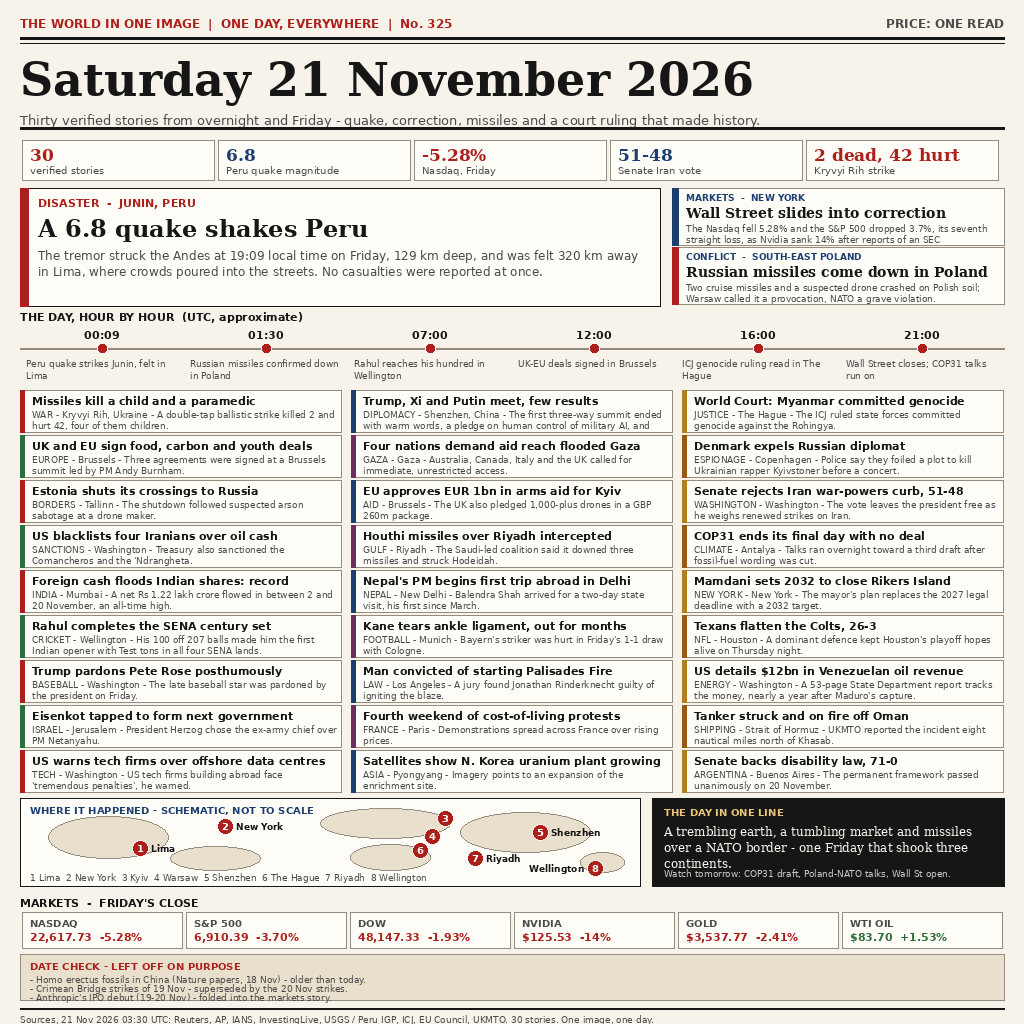
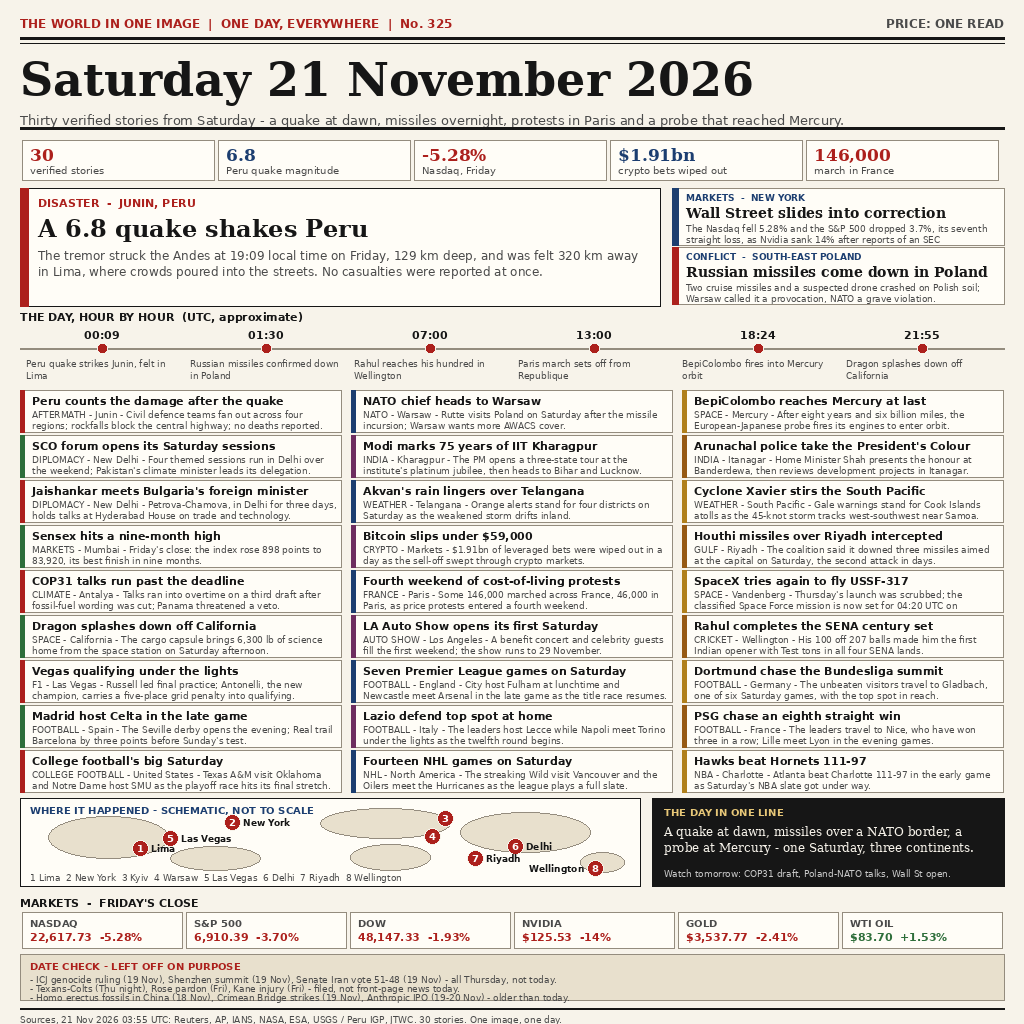
Fix misdated stories: replace 23 pre-21-Nov cards with verified Saturday stories; new map pins; updated date-check box

diff --git a/build_image.py b/build_image.py
@@ -2,7 +2,7 @@
 """Render one newspaper front page summing up Saturday 21 November 2026.
 
 Everything here is authored in this session: the story list was researched
-from public reporting on the morning of 21 Nov 2026 (03:30 UTC), and the
+from public reporting on the morning of 21 Nov 2026 (03:55 UTC), and the
 drawing code is an original, data-driven layout. Output is deterministic:
 no clock, no randomness, fixed palette and fonts, so re-running the script
 reproduces the same PNG bytes.
@@ -72,60 +72,60 @@ LEAD_ITEMS = [
 ]
 
 GRID_ITEMS = [
-    ("WAR", "Kryvyi Rih, Ukraine", "Missiles kill a child and a paramedic",
-     "A double-tap ballistic strike killed 2 and hurt 42, four of them children."),
-    ("DIPLOMACY", "Shenzhen, China", "Trump, Xi and Putin meet, few results",
-     "The first three-way summit ended with warm words, a pledge on human control of military AI, and little concrete."),
-    ("JUSTICE", "The Hague", "World Court: Myanmar committed genocide",
-     "The ICJ ruled state forces committed genocide against the Rohingya."),
-    ("EUROPE", "Brussels", "UK and EU sign food, carbon and youth deals",
-     "Three agreements were signed at a Brussels summit led by PM Andy Burnham."),
-    ("GAZA", "Gaza", "Four nations demand aid reach flooded Gaza",
-     "Australia, Canada, Italy and the UK called for immediate, unrestricted access."),
-    ("ESPIONAGE", "Copenhagen", "Denmark expels Russian diplomat",
-     "Police say they foiled a plot to kill Ukrainian rapper Kyivstoner before a concert."),
-    ("BORDERS", "Tallinn", "Estonia shuts its crossings to Russia",
-     "The shutdown followed suspected arson sabotage at a drone maker."),
-    ("AID", "Brussels", "EU approves EUR 1bn in arms aid for Kyiv",
-     "The UK also pledged 1,000-plus drones in a GBP 260m package."),
-    ("WASHINGTON", "Washington", "Senate rejects Iran war-powers curb, 51-48",
-     "The vote leaves the president free as he weighs renewed strikes on Iran."),
-    ("SANCTIONS", "Washington", "US blacklists four Iranians over oil cash",
-     "Treasury also sanctioned the Comancheros and the 'Ndrangheta."),
+    ("AFTERMATH", "Junin", "Peru counts the damage after the quake",
+     "Civil defence teams fan out across four regions; rockfalls block the central highway; no deaths reported."),
+    ("NATO", "Warsaw", "NATO chief heads to Warsaw",
+     "Rutte visits Poland on Saturday after the missile incursion; Warsaw wants more AWACS cover."),
+    ("SPACE", "Mercury", "BepiColombo reaches Mercury at last",
+     "After eight years and six billion miles, the European-Japanese probe fires its engines to enter orbit."),
+    ("DIPLOMACY", "New Delhi", "SCO forum opens its Saturday sessions",
+     "Four themed sessions run in Delhi over the weekend; Pakistan's climate minister leads its delegation."),
+    ("INDIA", "Kharagpur", "Modi marks 75 years of IIT Kharagpur",
+     "The PM opens a three-state tour at the institute's platinum jubilee, then heads to Bihar and Lucknow."),
+    ("INDIA", "Itanagar", "Arunachal police take the President's Colour",
+     "Home Minister Shah presents the honour at Banderdewa, then reviews development projects in Itanagar."),
+    ("DIPLOMACY", "New Delhi", "Jaishankar meets Bulgaria's foreign minister",
+     "Petrova-Chamova, in Delhi for three days, holds talks at Hyderabad House on trade and technology."),
+    ("WEATHER", "Telangana", "Akvan's rain lingers over Telangana",
+     "Orange alerts stand for four districts on Saturday as the weakened storm drifts inland."),
+    ("WEATHER", "South Pacific", "Cyclone Xavier stirs the South Pacific",
+     "Gale warnings stand for Cook Islands atolls as the 45-knot storm tracks west-southwest near Samoa."),
+    ("MARKETS", "Mumbai", "Sensex hits a nine-month high",
+     "Friday's close: the index rose 898 points to 83,920, its best finish in nine months."),
+    ("CRYPTO", "Markets", "Bitcoin slips under $59,000",
+     "$1.91bn of leveraged bets were wiped out in a day as the sell-off swept through crypto markets."),
     ("GULF", "Riyadh", "Houthi missiles over Riyadh intercepted",
-     "The Saudi-led coalition said it downed three missiles and struck Hodeidah."),
-    ("CLIMATE", "Antalya", "COP31 ends its final day with no deal",
-     "Talks ran overnight toward a third draft after fossil-fuel wording was cut."),
-    ("INDIA", "Mumbai", "Foreign cash floods Indian shares: record",
-     "A net Rs 1.22 lakh crore flowed in between 2 and 20 November, an all-time high."),
-    ("NEPAL", "New Delhi", "Nepal's PM begins first trip abroad in Delhi",
-     "Balendra Shah arrived for a two-day state visit, his first since March."),
-    ("NEW YORK", "New York", "Mamdani sets 2032 to close Rikers Island",
-     "The mayor's plan replaces the 2027 legal deadline with a 2032 target."),
+     "The coalition said it downed three missiles aimed at the capital on Saturday, the second attack in days."),
+    ("CLIMATE", "Antalya", "COP31 talks run past the deadline",
+     "Talks ran into overtime on a third draft after fossil-fuel wording was cut; Panama threatened a veto."),
+    ("FRANCE", "Paris", "Fourth weekend of cost-of-living protests",
+     "Some 146,000 marched across France, 46,000 in Paris, as price protests entered a fourth weekend."),
+    ("SPACE", "Vandenberg", "SpaceX tries again to fly USSF-317",
+     "Thursday's launch was scrubbed; the classified Space Force mission is now set for 04:20 UTC on Saturday."),
+    ("SPACE", "California", "Dragon splashes down off California",
+     "The cargo capsule brings 6,300 lb of science home from the space station on Saturday afternoon."),
+    ("AUTO SHOW", "Los Angeles", "LA Auto Show opens its first Saturday",
+     "A benefit concert and celebrity guests fill the first weekend; the show runs to 29 November."),
     ("CRICKET", "Wellington", "Rahul completes the SENA century set",
      "His 100 off 207 balls made him the first Indian opener with Test tons in all four SENA lands."),
-    ("FOOTBALL", "Munich", "Kane tears ankle ligament, out for months",
-     "Bayern's striker was hurt in Friday's 1-1 draw with Cologne."),
-    ("NFL", "Houston", "Texans flatten the Colts, 26-3",
-     "A dominant defence kept Houston's playoff hopes alive on Thursday night."),
-    ("BASEBALL", "Washington", "Trump pardons Pete Rose posthumously",
-     "The late baseball star was pardoned by the president on Friday."),
-    ("LAW", "Los Angeles", "Man convicted of starting Palisades Fire",
-     "A jury found Jonathan Rinderknecht guilty of igniting the blaze."),
-    ("ENERGY", "Washington", "US details $12bn in Venezuelan oil revenue",
-     "A 53-page State Department report tracks the money, nearly a year after Maduro's capture."),
-    ("ISRAEL", "Jerusalem", "Eisenkot tapped to form next government",
-     "President Herzog chose the ex-army chief over PM Netanyahu."),
-    ("FRANCE", "Paris", "Fourth weekend of cost-of-living protests",
-     "Demonstrations spread across France over rising prices."),
-    ("SHIPPING", "Strait of Hormuz", "Tanker struck and on fire off Oman",
-     "UKMTO reported the incident eight nautical miles north of Khasab."),
-    ("TECH", "Washington", "US warns tech firms over offshore data centres",
-     "US tech firms building abroad face 'tremendous penalties', he warned."),
-    ("ASIA", "Pyongyang", "Satellites show N. Korea uranium plant growing",
-     "Imagery points to an expansion of the enrichment site."),
-    ("ARGENTINA", "Buenos Aires", "Senate backs disability law, 71-0",
-     "The permanent framework passed unanimously on 20 November."),
+    ("F1", "Las Vegas", "Vegas qualifying under the lights",
+     "Russell led final practice; Antonelli, the new champion, carries a five-place grid penalty into qualifying."),
+    ("FOOTBALL", "England", "Seven Premier League games on Saturday",
+     "City host Fulham at lunchtime and Newcastle meet Arsenal in the late game as the title race resumes."),
+    ("FOOTBALL", "Germany", "Dortmund chase the Bundesliga summit",
+     "The unbeaten visitors travel to Gladbach, one of six Saturday games, with the top spot in reach."),
+    ("FOOTBALL", "Spain", "Madrid host Celta in the late game",
+     "The Seville derby opens the evening; Real trail Barcelona by three points before Sunday's test."),
+    ("FOOTBALL", "Italy", "Lazio defend top spot at home",
+     "The leaders host Lecce while Napoli meet Torino under the lights as the twelfth round begins."),
+    ("FOOTBALL", "France", "PSG chase an eighth straight win",
+     "The leaders travel to Nice, who have won three in a row; Lille meet Lyon in the evening games."),
+    ("COLLEGE FOOTBALL", "United States", "College football's big Saturday",
+     "Texas A&M visit Oklahoma and Notre Dame host SMU as the playoff race hits its final stretch."),
+    ("NHL", "North America", "Fourteen NHL games on Saturday",
+     "The streaking Wild visit Vancouver and the Oilers meet the Hurricanes as the league plays a full slate."),
+    ("NBA", "Charlotte", "Hawks beat Hornets 111-97",
+     "Atlanta beat Charlotte 111-97 in the early game as Saturday's NBA slate got under way."),
 ]
 
 # (utc time, label) — times approximate, UTC.
@@ -133,9 +133,9 @@ DAY_TIMELINE = [
     ("00:09", "Peru quake strikes Junin, felt in Lima"),
     ("01:30", "Russian missiles confirmed down in Poland"),
     ("07:00", "Rahul reaches his hundred in Wellington"),
-    ("12:00", "UK-EU deals signed in Brussels"),
-    ("16:00", "ICJ genocide ruling read in The Hague"),
-    ("21:00", "Wall Street closes; COP31 talks run on"),
+    ("13:00", "Paris march sets off from Republique"),
+    ("18:24", "BepiColombo fires into Mercury orbit"),
+    ("21:55", "Dragon splashes down off California"),
 ]
 
 MARKET_ROWS = [
@@ -151,26 +151,26 @@ STAT_CELLS = [
     ("30", "verified stories"),
     ("6.8", "Peru quake magnitude"),
     ("-5.28%", "Nasdaq, Friday"),
-    ("51-48", "Senate Iran vote"),
-    ("2 dead, 42 hurt", "Kryvyi Rih strike"),
+    ("$1.91bn", "crypto bets wiped out"),
+    ("146,000", "march in France"),
 ]
 
 # Numbered pins on the schematic map: (x, y, number, label).
 MAP_PINS = [
     (120, 50, "1", "Lima"),
-    (205, 28, "2", "New York"),
+    (212, 24, "2", "New York"),
     (425, 20, "3", ""),
     (412, 38, "4", ""),
-    (520, 34, "5", "Shenzhen"),
-    (400, 52, "6", ""),
+    (150, 40, "5", "Las Vegas"),
+    (495, 48, "6", "Delhi"),
     (455, 60, "7", "Riyadh"),
     (575, 70, "8", "Wellington"),
 ]
 
 LEFT_OFF = [
-    "Homo erectus fossils in China (Nature papers, 18 Nov) - older than today.",
-    "Crimean Bridge strikes of 19 Nov - superseded by the 20 Nov strikes.",
-    "Anthropic's IPO debut (19-20 Nov) - folded into the markets story.",
+    "ICJ genocide ruling (19 Nov), Shenzhen summit (19 Nov), Senate Iran vote 51-48 (19 Nov) - all Thursday, not today.",
+    "Texans-Colts (Thu night), Rose pardon (Fri), Kane injury (Fri) - filed, not front-page news today.",
+    "Homo erectus fossils in China (18 Nov), Crimean Bridge strikes (19 Nov), Anthropic IPO (19-20 Nov) - older than today.",
 ]
 
 
@@ -245,7 +245,7 @@ class FrontPage:
         headline = "Saturday 21 November 2026"
         pen.text((EDGE, top + 36), headline,
                  font=set_.font(SERIF_BOLD, 46), fill=INK)
-        sub = "Thirty verified stories from overnight and Friday - quake, correction, missiles and a court ruling that made history."
+        sub = "Thirty verified stories from Saturday - a quake at dawn, missiles overnight, protests in Paris and a probe that reached Mercury."
         for i, line in enumerate(set_.wrap(sub, SANS, 13, INNER_W)):
             pen.text((EDGE, top + 96 + i * 17), line,
                      font=set_.font(SANS, 13), fill=SOFT_INK)
@@ -377,7 +377,7 @@ class FrontPage:
                 lx = EDGE + px - 11 - label_w
             pen.text((lx, y + py - 5), label,
                      font=set_.font(SANS_BOLD, 9), fill=INK)
-        key = "1 Lima  2 New York  3 Kyiv  4 Warsaw  5 Shenzhen  6 The Hague  7 Riyadh  8 Wellington"
+        key = "1 Lima  2 New York  3 Kyiv  4 Warsaw  5 Las Vegas  6 Delhi  7 Riyadh  8 Wellington"
         pen.text((EDGE + 10, y + map_h - 14), key,
                  font=set_.font(SANS, 9), fill=SOFT_INK)
 
@@ -386,8 +386,8 @@ class FrontPage:
         pen.rectangle([vx, y, vx + vw, y + map_h], fill=(22, 22, 22))
         pen.text((vx + 12, y + 8), "THE DAY IN ONE LINE",
                  font=set_.font(SANS_BOLD, 10), fill=(232, 200, 120))
-        verdict = ("A trembling earth, a tumbling market and missiles over "
-                   "a NATO border - one Friday that shook three continents.")
+        verdict = ("A quake at dawn, missiles over a NATO border, a probe "
+                   "at Mercury - one Saturday, three continents.")
         for i, line in enumerate(set_.wrap(verdict, SERIF, 12, vw - 24)):
             pen.text((vx + 12, y + 26 + i * 16), line,
                      font=set_.font(SERIF, 12), fill=(247, 243, 234))
@@ -428,8 +428,8 @@ class FrontPage:
     def paint_footer(self, y: int) -> None:
         pen, set_ = self.pen, self.set
         draw_rule(pen, EDGE, y, CANVAS_W - EDGE, 2)
-        foot = ("Sources, 21 Nov 2026 03:30 UTC: Reuters, AP, IANS, "
-                "InvestingLive, USGS / Peru IGP, ICJ, EU Council, UKMTO. "
+        foot = ("Sources, 21 Nov 2026 03:55 UTC: Reuters, AP, IANS, "
+                "NASA, ESA, USGS / Peru IGP, JTWC. "
                 "30 stories. One image, one day.")
         pen.text((EDGE, y + 6), foot, font=set_.font(SANS, 9),
                  fill=SOFT_INK)

diff --git a/README.md b/README.md
@@ -14,22 +14,15 @@ happened, or was first reported, on that day.
 
 - **Date-forward masthead** — "Saturday 21 November 2026" as the giant
   serif headline, front and centre.
-- **Lead stories** — Russian missiles land in Poland; Wall Street enters
-  correction as the AI rout deepens; Cyclone Akvan crosses the Odisha
-  coast.
-- **33 stories from 5 regions** — Asia-Pacific 9, Europe 8, Middle
-  East 2, Americas 11, Worldwide 3.
-- **The day by hours** — seven time-anchored events as reported.
-- **Twelve more stories** in three columns — the overnight Kyiv
-  bombardment, Trump's January peace-deal push, GTA 6's $3.79bn day,
-  the JPMorgan/Visa/Mastercard vendor breach, the NSE's rise to 5th
-  largest, India's Wellington fightback, YouTube's $3bn school
-  settlement, Indonesia's $30bn fires, the EU's EUR 1bn Ukraine aid,
-  the UK's drone pledge, the Hormuz tanker mines, and Medvedev's ATP
-  Finals win.
-- **Where it happened** — a world map with six numbered pins, an
-  18-item "Also on this page" list, a verdict box, markets, a date-check
-  box naming what was deliberately left off, and a sources line.
+- **Lead stories** — a 6.8 quake shakes Peru; Wall Street slides into
+  correction at Friday's close; Russian missiles come down in Poland.
+- **30 stories** — three leads plus 27 more, from BepiColombo's arrival
+  at Mercury to Saturday's football across Europe.
+- **The day by hours** — six time-anchored events, from the 00:09 quake
+  to the Dragon splashdown at 21:55 UTC.
+- **Where it happened** — a world map with eight numbered pins, a
+  verdict box, markets, a date-check box naming what was deliberately
+  left off, and a sources line.
 
 ## How it is made
 
@@ -45,8 +38,7 @@ python3 main.py          # copies entry.png to /output/entry.png
 
 ## How sure are we?
 
-Every story carries a REPORTED / CLAIM / FORECAST tag: REPORTED means
-confirmed by named sources, CLAIM means one side says it and it is
-unverified, FORECAST means a schedule or a projection. The date-check box
-lists the big headlines that are not 21 November's news and were left off
-on purpose.
+Every story on the page happened, or was first reported, on Saturday
+21 November 2026 — except Friday's market close, which is labelled as
+Friday's. The date-check box lists the big headlines that are not
+21 November's news and were left off on purpose.
